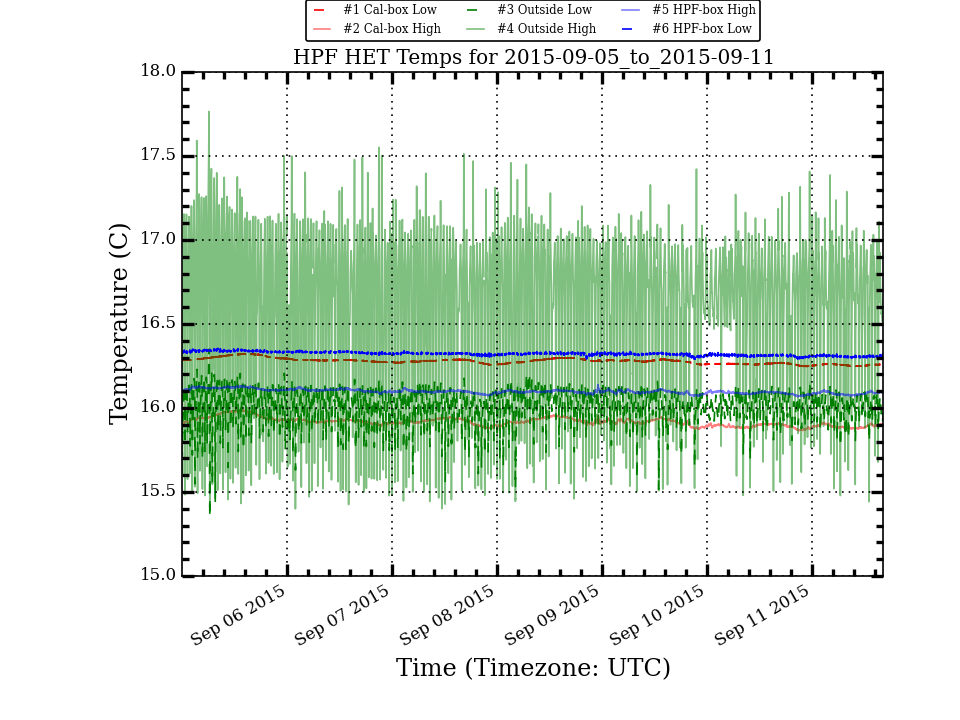
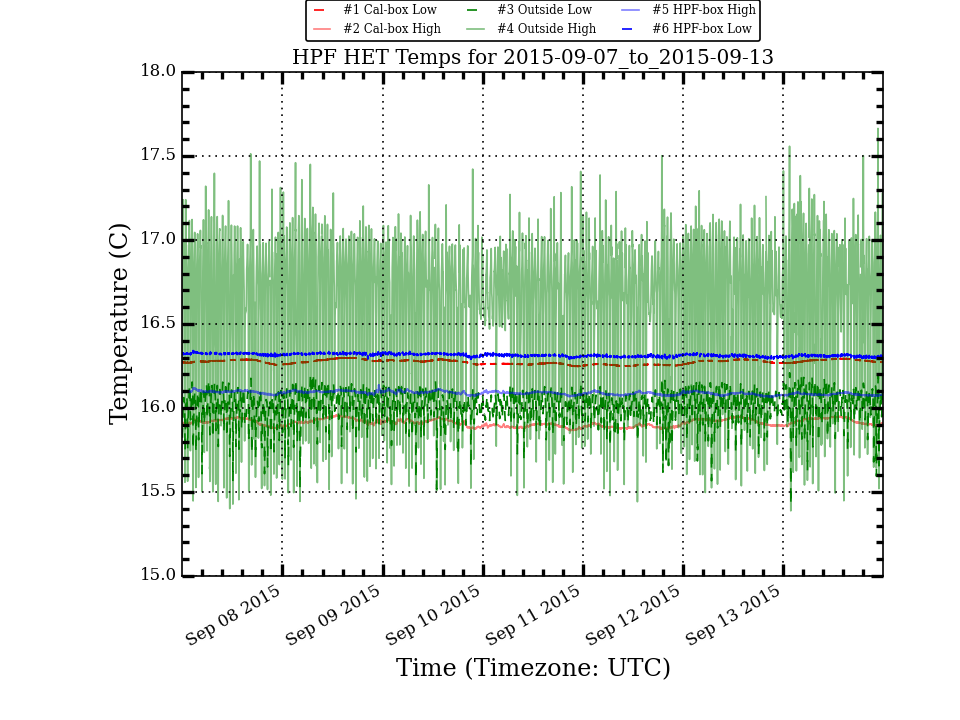
Update HPF Temp Plots

diff --git a/research/hpf_temps/plots/LakeShoreLogTotal_month_stats.html b/research/hpf_temps/plots/LakeShoreLogTotal_month_stats.html
@@ -10,56 +10,56 @@
  </TR>
  <TR>
   <TD>Cal_Low</TD>
-  <TD>16.285</TD>
-  <TD>0.070</TD>
-  <TD>16.277</TD>
-  <TD>16.552</TD>
+  <TD>16.271</TD>
+  <TD>0.045</TD>
+  <TD>16.276</TD>
+  <TD>16.330</TD>
   <TD>15.928</TD>
-  <TD>0.624</TD>
+  <TD>0.402</TD>
  </TR>
  <TR>
   <TD>Cal_High</TD>
-  <TD>15.922</TD>
-  <TD>0.084</TD>
-  <TD>15.912</TD>
-  <TD>16.263</TD>
+  <TD>15.906</TD>
+  <TD>0.051</TD>
+  <TD>15.910</TD>
+  <TD>15.987</TD>
   <TD>15.524</TD>
-  <TD>0.739</TD>
+  <TD>0.463</TD>
  </TR>
  <TR>
   <TD>Out_Low</TD>
-  <TD>16.010</TD>
-  <TD>0.149</TD>
-  <TD>16.031</TD>
-  <TD>16.762</TD>
-  <TD>15.121</TD>
-  <TD>1.641</TD>
+  <TD>16.004</TD>
+  <TD>0.121</TD>
+  <TD>16.029</TD>
+  <TD>16.391</TD>
+  <TD>15.304</TD>
+  <TD>1.087</TD>
  </TR>
  <TR>
   <TD>Out_High</TD>
-  <TD>16.610</TD>
-  <TD>0.482</TD>
-  <TD>16.748</TD>
-  <TD>18.371</TD>
+  <TD>16.592</TD>
+  <TD>0.450</TD>
+  <TD>16.735</TD>
+  <TD>17.776</TD>
   <TD>14.886</TD>
-  <TD>3.485</TD>
+  <TD>2.890</TD>
  </TR>
  <TR>
   <TD>HPF_High</TD>
-  <TD>16.156</TD>
-  <TD>0.069</TD>
-  <TD>16.133</TD>
-  <TD>16.434</TD>
-  <TD>16.068</TD>
-  <TD>0.366</TD>
+  <TD>16.137</TD>
+  <TD>0.046</TD>
+  <TD>16.128</TD>
+  <TD>16.284</TD>
+  <TD>16.063</TD>
+  <TD>0.221</TD>
  </TR>
  <TR>
   <TD>HPF_Low</TD>
-  <TD>16.377</TD>
-  <TD>0.065</TD>
-  <TD>16.354</TD>
-  <TD>16.616</TD>
+  <TD>16.359</TD>
+  <TD>0.044</TD>
+  <TD>16.347</TD>
+  <TD>16.494</TD>
   <TD>16.290</TD>
-  <TD>0.326</TD>
+  <TD>0.204</TD>
  </TR>
 </TABLE>

diff --git a/research/hpf_temps/plots/LakeShoreLogTotal_week_stats.html b/research/hpf_temps/plots/LakeShoreLogTotal_week_stats.html
@@ -10,56 +10,56 @@
  </TR>
  <TR>
   <TD>Cal_Low</TD>
-  <TD>16.279</TD>
-  <TD>0.017</TD>
-  <TD>16.280</TD>
-  <TD>16.323</TD>
+  <TD>16.274</TD>
+  <TD>0.013</TD>
+  <TD>16.276</TD>
+  <TD>16.300</TD>
   <TD>16.247</TD>
-  <TD>0.076</TD>
+  <TD>0.053</TD>
  </TR>
  <TR>
   <TD>Cal_High</TD>
-  <TD>15.917</TD>
-  <TD>0.025</TD>
-  <TD>15.917</TD>
-  <TD>15.987</TD>
+  <TD>15.913</TD>
+  <TD>0.021</TD>
+  <TD>15.912</TD>
+  <TD>15.958</TD>
   <TD>15.866</TD>
-  <TD>0.121</TD>
+  <TD>0.092</TD>
  </TR>
  <TR>
   <TD>Out_Low</TD>
-  <TD>16.012</TD>
-  <TD>0.092</TD>
-  <TD>16.026</TD>
-  <TD>16.351</TD>
-  <TD>15.348</TD>
-  <TD>1.003</TD>
+  <TD>16.016</TD>
+  <TD>0.087</TD>
+  <TD>16.031</TD>
+  <TD>16.210</TD>
+  <TD>15.423</TD>
+  <TD>0.787</TD>
  </TR>
  <TR>
   <TD>Out_High</TD>
-  <TD>16.597</TD>
-  <TD>0.433</TD>
-  <TD>16.738</TD>
-  <TD>17.765</TD>
-  <TD>15.400</TD>
-  <TD>2.365</TD>
+  <TD>16.604</TD>
+  <TD>0.407</TD>
+  <TD>16.739</TD>
+  <TD>17.664</TD>
+  <TD>15.388</TD>
+  <TD>2.276</TD>
  </TR>
  <TR>
   <TD>HPF_High</TD>
-  <TD>16.099</TD>
-  <TD>0.013</TD>
-  <TD>16.097</TD>
+  <TD>16.089</TD>
+  <TD>0.010</TD>
+  <TD>16.090</TD>
   <TD>16.138</TD>
-  <TD>16.068</TD>
-  <TD>0.070</TD>
+  <TD>16.063</TD>
+  <TD>0.075</TD>
  </TR>
  <TR>
   <TD>HPF_Low</TD>
-  <TD>16.323</TD>
-  <TD>0.011</TD>
-  <TD>16.323</TD>
-  <TD>16.355</TD>
+  <TD>16.315</TD>
+  <TD>0.008</TD>
+  <TD>16.315</TD>
+  <TD>16.342</TD>
   <TD>16.290</TD>
-  <TD>0.065</TD>
+  <TD>0.052</TD>
  </TR>
 </TABLE>
